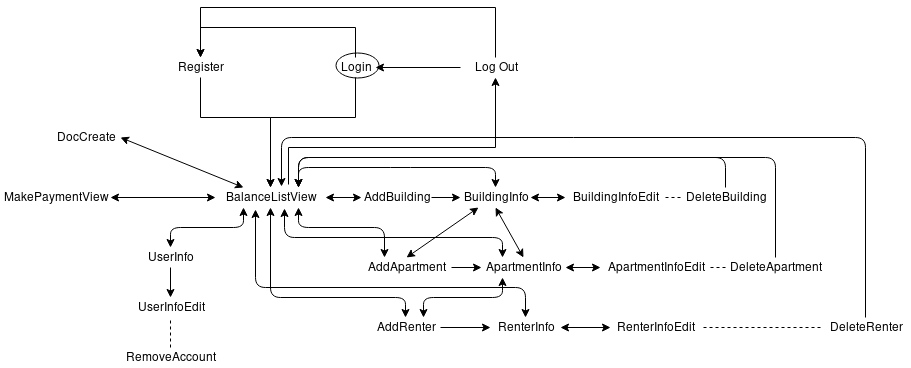
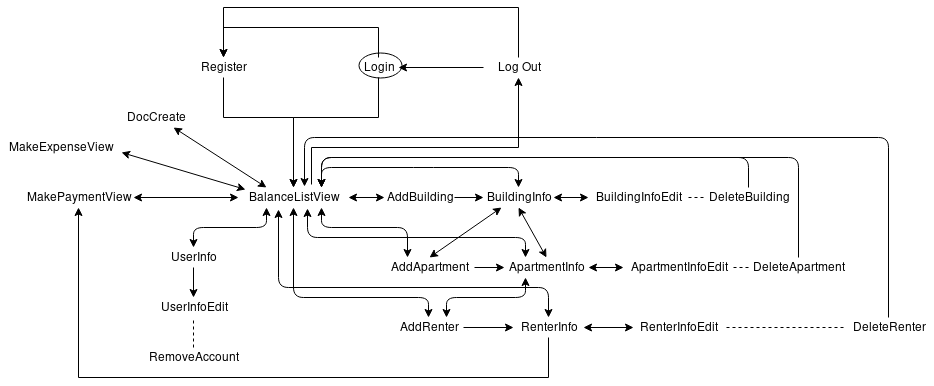
Added AddExpenseView to plan

diff --git a/docs/blueprints.md b/docs/blueprints.md
@@ -9,7 +9,7 @@
 * Renter Blueprint
     * Endpoints: RenterInfo, RenterInfoEdit, AddRenter, DeleteRenter
 * Payments Blueprint
-    * Endpoints: BalanceListView (Filterable List), MakePaymentView
+    * Endpoints: BalanceListView (Filterable List), MakePaymentView, MakeExpensesView
 * User Blueprint
     * Endpoints: UserInfo, UserInfoEdit, RemoveAccount
 * DocCreate Blueprint
